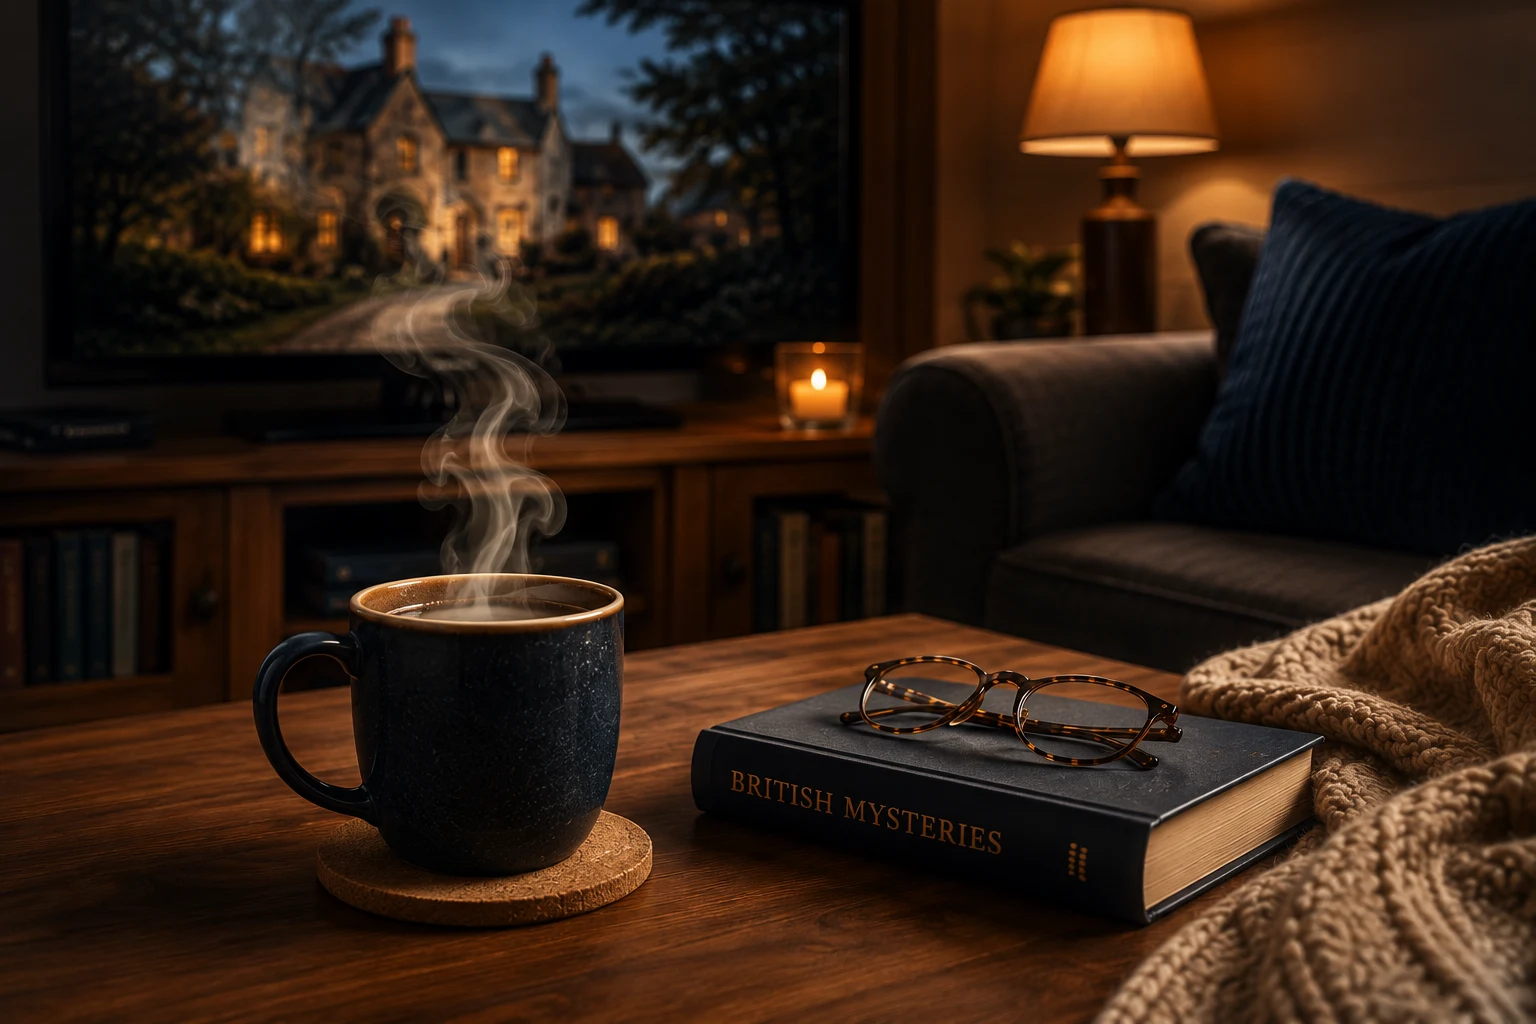
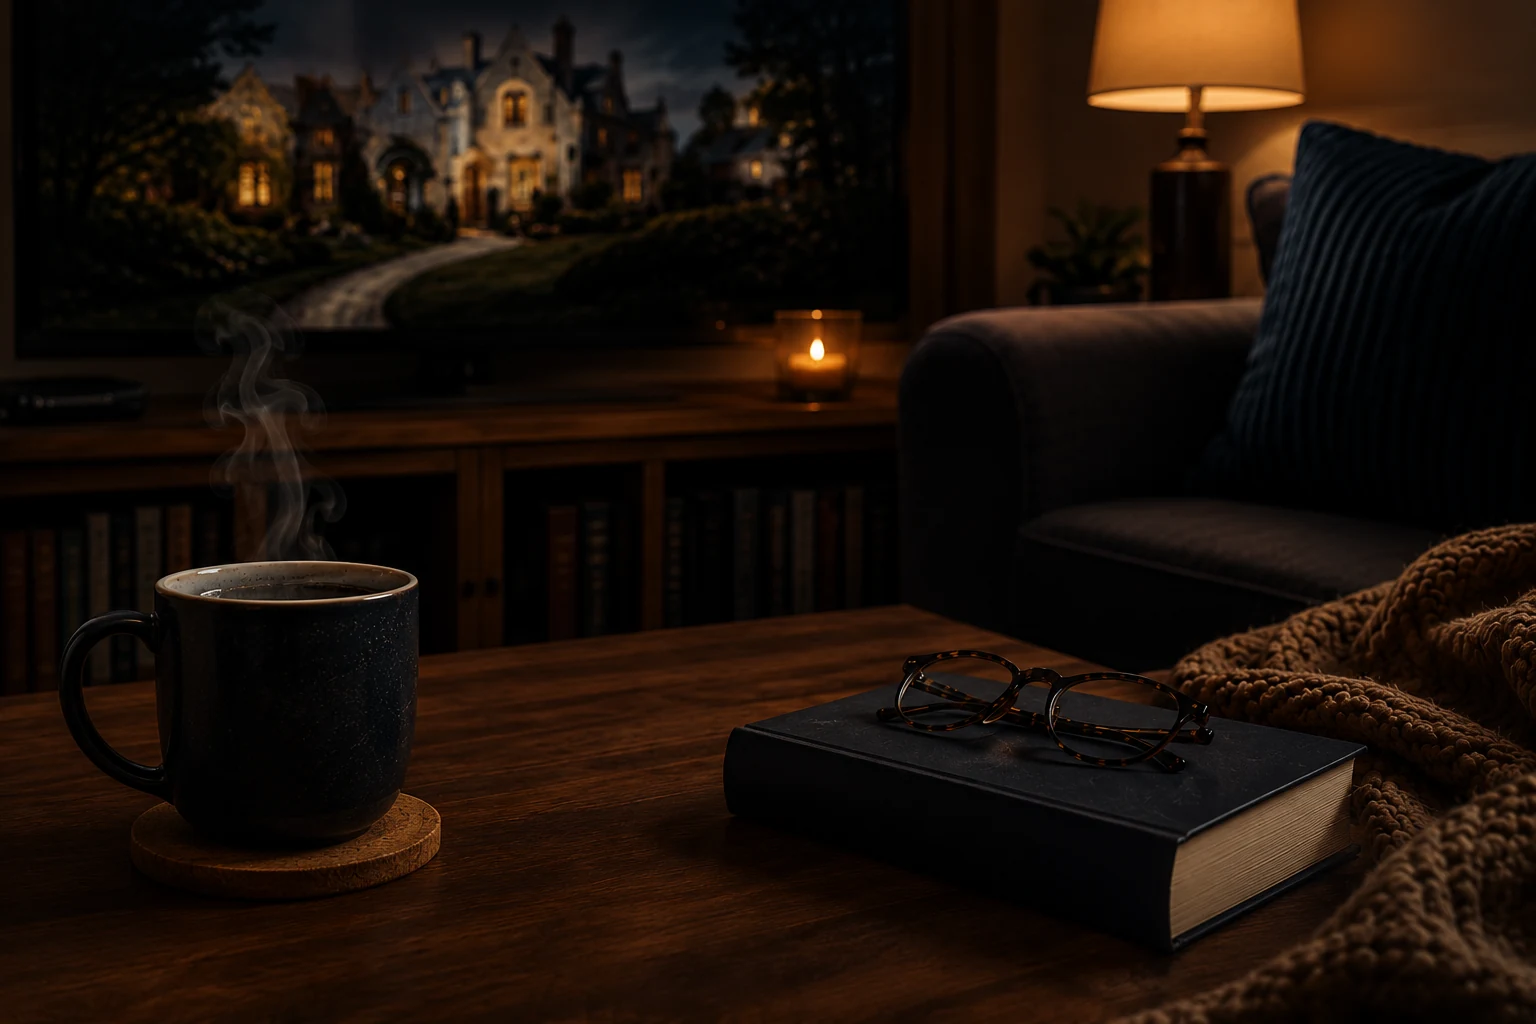
Replace hero image with revised composition (mug shifted left, coaster fully visible, rest of scene preserved); realign animated steam overlay to new mug position

diff --git a/index.html b/index.html
@@ -1267,7 +1267,7 @@ document.addEventListener('click', function(e){
 <main>
 <div id="homepage-lobby" style="position:relative;background:linear-gradient(to bottom,rgba(10,14,24,0.6),rgba(10,14,24,0.9)),url('/hero.webp') center/cover no-repeat;min-height:490px;display:flex;flex-direction:column;align-items:center;justify-content:center;text-align:center;padding:60px 24px 44px;border-bottom:1px solid #3d4a60;">
   <p style="font-family:'Raleway',sans-serif;font-size:11px;letter-spacing:4px;text-transform:uppercase;color:#c9a96e;margin:0 0 18px;">Watch &middot; Read &middot; Discover</p>
-  <div class="steam-animation" style="position:absolute;left:12%;top:62%;width:75px;height:145px;transform:translate(-50%,-100%);opacity:0.22;filter:blur(3px);pointer-events:none;z-index:3;transform-origin:bottom center;">
+  <div class="steam-animation" style="position:absolute;left:16%;top:56%;width:75px;height:145px;transform:translate(-50%,-100%);opacity:0.22;filter:blur(3px);pointer-events:none;z-index:3;transform-origin:bottom center;">
     <svg viewBox="0 0 75 145" style="width:100%;height:100%;" aria-hidden="true">
       <path d="M37,143 C33,124 41,112 36,94 C32,78 40,67 35,50 C31,36 39,28 34,10" fill="none" stroke="#f2ede0" stroke-width="3" stroke-linecap="round"/>
       <path d="M43,143 C48,126 54,114 50,96 C46,80 53,69 49,53 C45,40 51,31 47,14" fill="none" stroke="#f2ede0" stroke-width="2.1" stroke-linecap="round"/>
